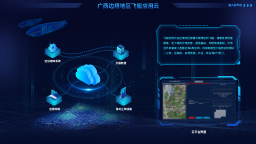
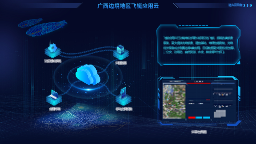
飞艇页面光圈背景动画添加

diff --git a/feiting.html b/feiting.html
@@ -34,6 +34,7 @@
                 lineFlow(dataModel)
                 cloudAnimation(dataModel)
                 airshipAnimation(dataModel)
+                guangquan(dataModel) // 光圈动画
             });
         }
 
@@ -293,6 +294,101 @@
             //     },
             //     start: ["up"]
             // });
+        }
+
+        // 光圈动画
+        function guangquan(dm) {
+            const guangquan = dm.getDataByTag('guangquan')
+            const guangquan2 = dm.getDataByTag('guangquan2')
+            const guangquan3 = dm.getDataByTag('guangquan3')
+            const lizibj = dm.getDataByTag('lizibj')
+
+            guangquan.setAnimation({
+                show: {
+                    property: "opacity",
+                    accessType: "style",
+                    from: 1,
+                    to: 0,
+                    duration: 4000,
+                    repeat: true
+                },
+                large: {
+                    from: 1,
+                    to: 1.15,
+                    duration: 4000,
+                    repeat: true,
+                    onUpdate: function (value) {
+                        this.setScale(value,value);
+                    }
+                },
+                start: ["show","large"]
+            })
+
+            guangquan2.setAnimation({
+                show: {
+                    property: "opacity",
+                    accessType: "style",
+                    from: 1,
+                    to: 0,
+                    duration: 4000,
+                    delay:500,
+                    repeat: true
+                },
+                large: {
+                    from: 1,
+                    to: 1.15,
+                    duration: 4000,
+                    delay:500,
+                    repeat: true,
+                    onUpdate: function (value) {
+                        this.setScale(value,value);
+                    }
+                },
+                start: ["show","large"]
+            })
+
+            guangquan3.setAnimation({
+                show: {
+                    property: "opacity",
+                    accessType: "style",
+                    from: 1,
+                    to: 0,
+                    duration: 4000,
+                    repeat: true
+                },
+                large: {
+                    from: 1,
+                    to: 1.15,
+                    duration: 4000,
+                    repeat: true,
+                    onUpdate: function (value) {
+                        this.setScale(value,value);
+                    }
+                },
+                start: ["show","large"]
+            })
+
+            // lizibj.setAnimation({
+            //     small: {
+            //         from: 1.15,
+            //         to: 1,
+            //         duration: 2000,
+            //         next: 'large',
+            //         onUpdate: function (value) {
+            //             this.setScale(value,value);
+            //         }
+            //     },
+            //     large: {
+            //         from: 1,
+            //         to: 1.15,
+            //         duration: 2000,
+            //         next: 'small',
+            //         onUpdate: function (value) {
+            //             this.setScale(value,value);
+            //         }
+            //     },
+            //     start: ["large"]
+            // })
         }
     </script>
 </head>
